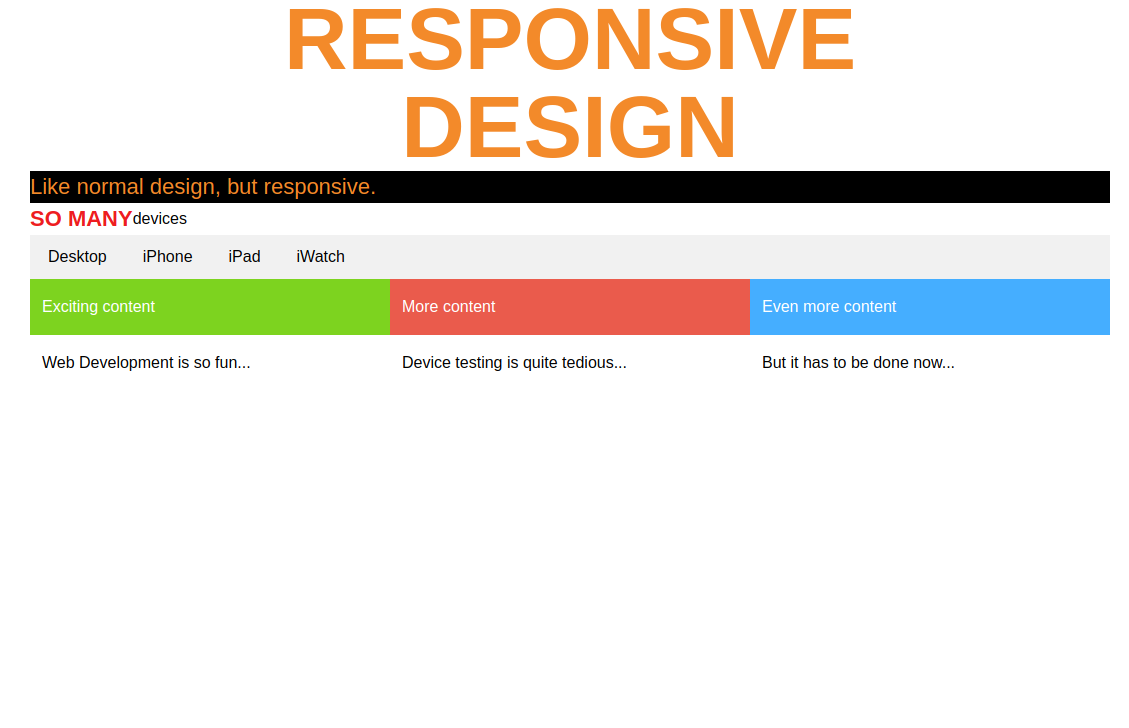
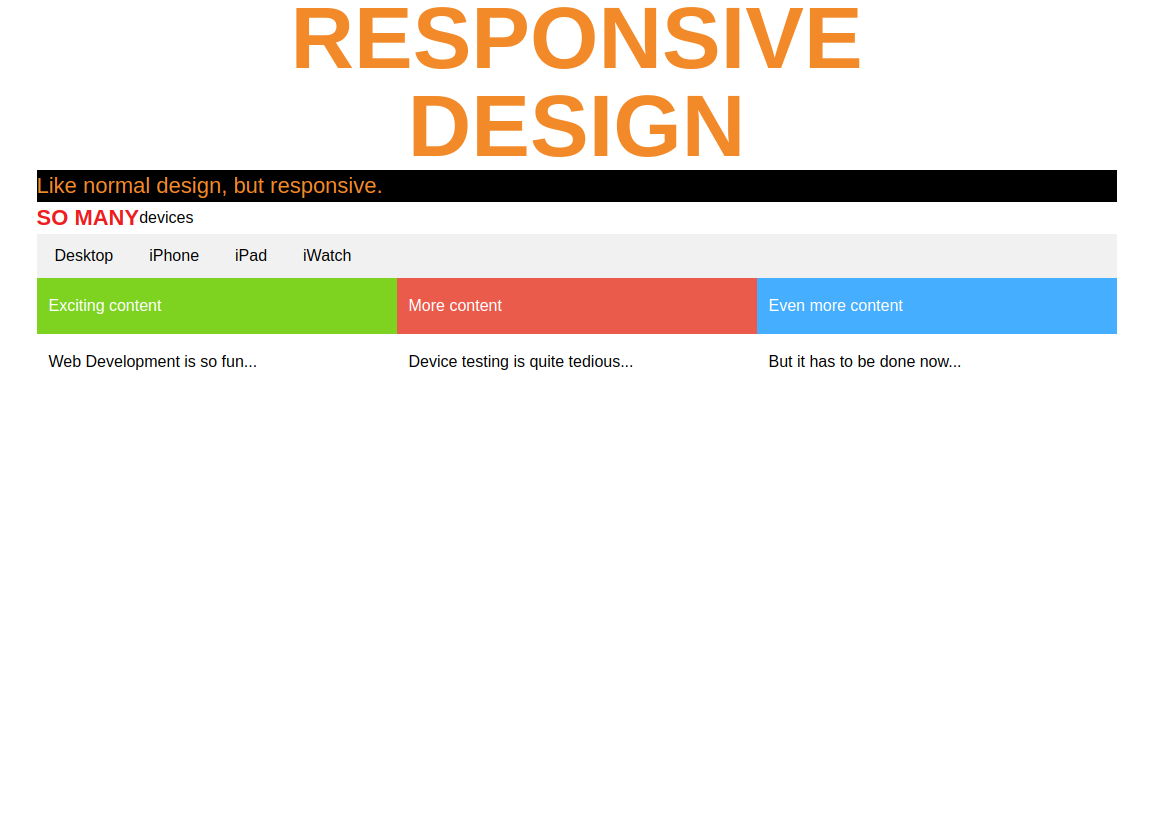
updated background image and project images

Changed region(s): [[0.0, 0.0, 0.992, 0.5137]]

diff --git a/styles.css b/styles.css
@@ -1,5 +1,8 @@
 body {
-	background-color: #8a3a3a;
+	/* background-color: #552929; */
+	background-image: url("images/background.jpg");
+	background-size: cover;
+	font-family: 'Montserrat', sans-serif;
 }
 
 header {
@@ -19,7 +22,7 @@ header {
 }
 
 h1 {
-	font-family: 'Montserrat', sans-serif;
+
 	margin-left: 24px;
 	font-size: 24px;
 }
@@ -65,7 +68,7 @@ i.fa-bars {
 
 main {
 	position: relative;
-	font-family: Crimson Pro, serif;
+	/* font-family: Crimson Pro, serif; */
 	margin-left: 10px;
 	margin-right: 10px;
 	margin-top: 74px;
